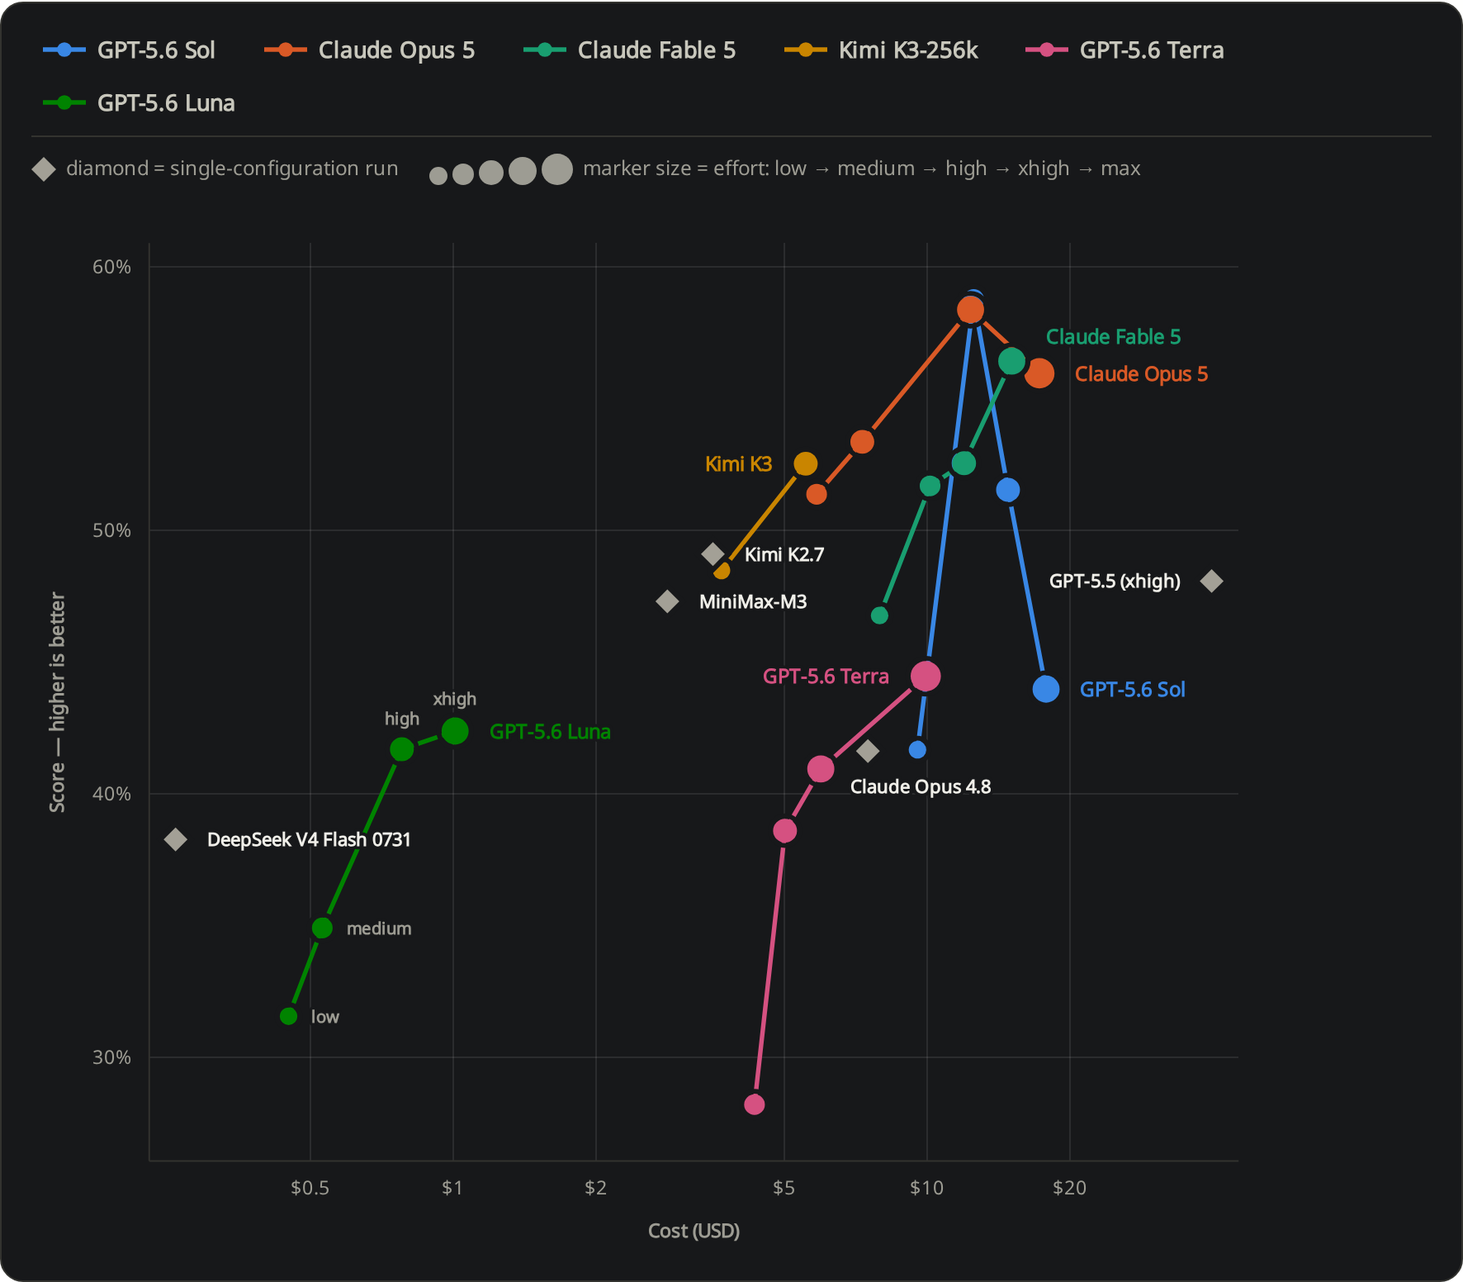
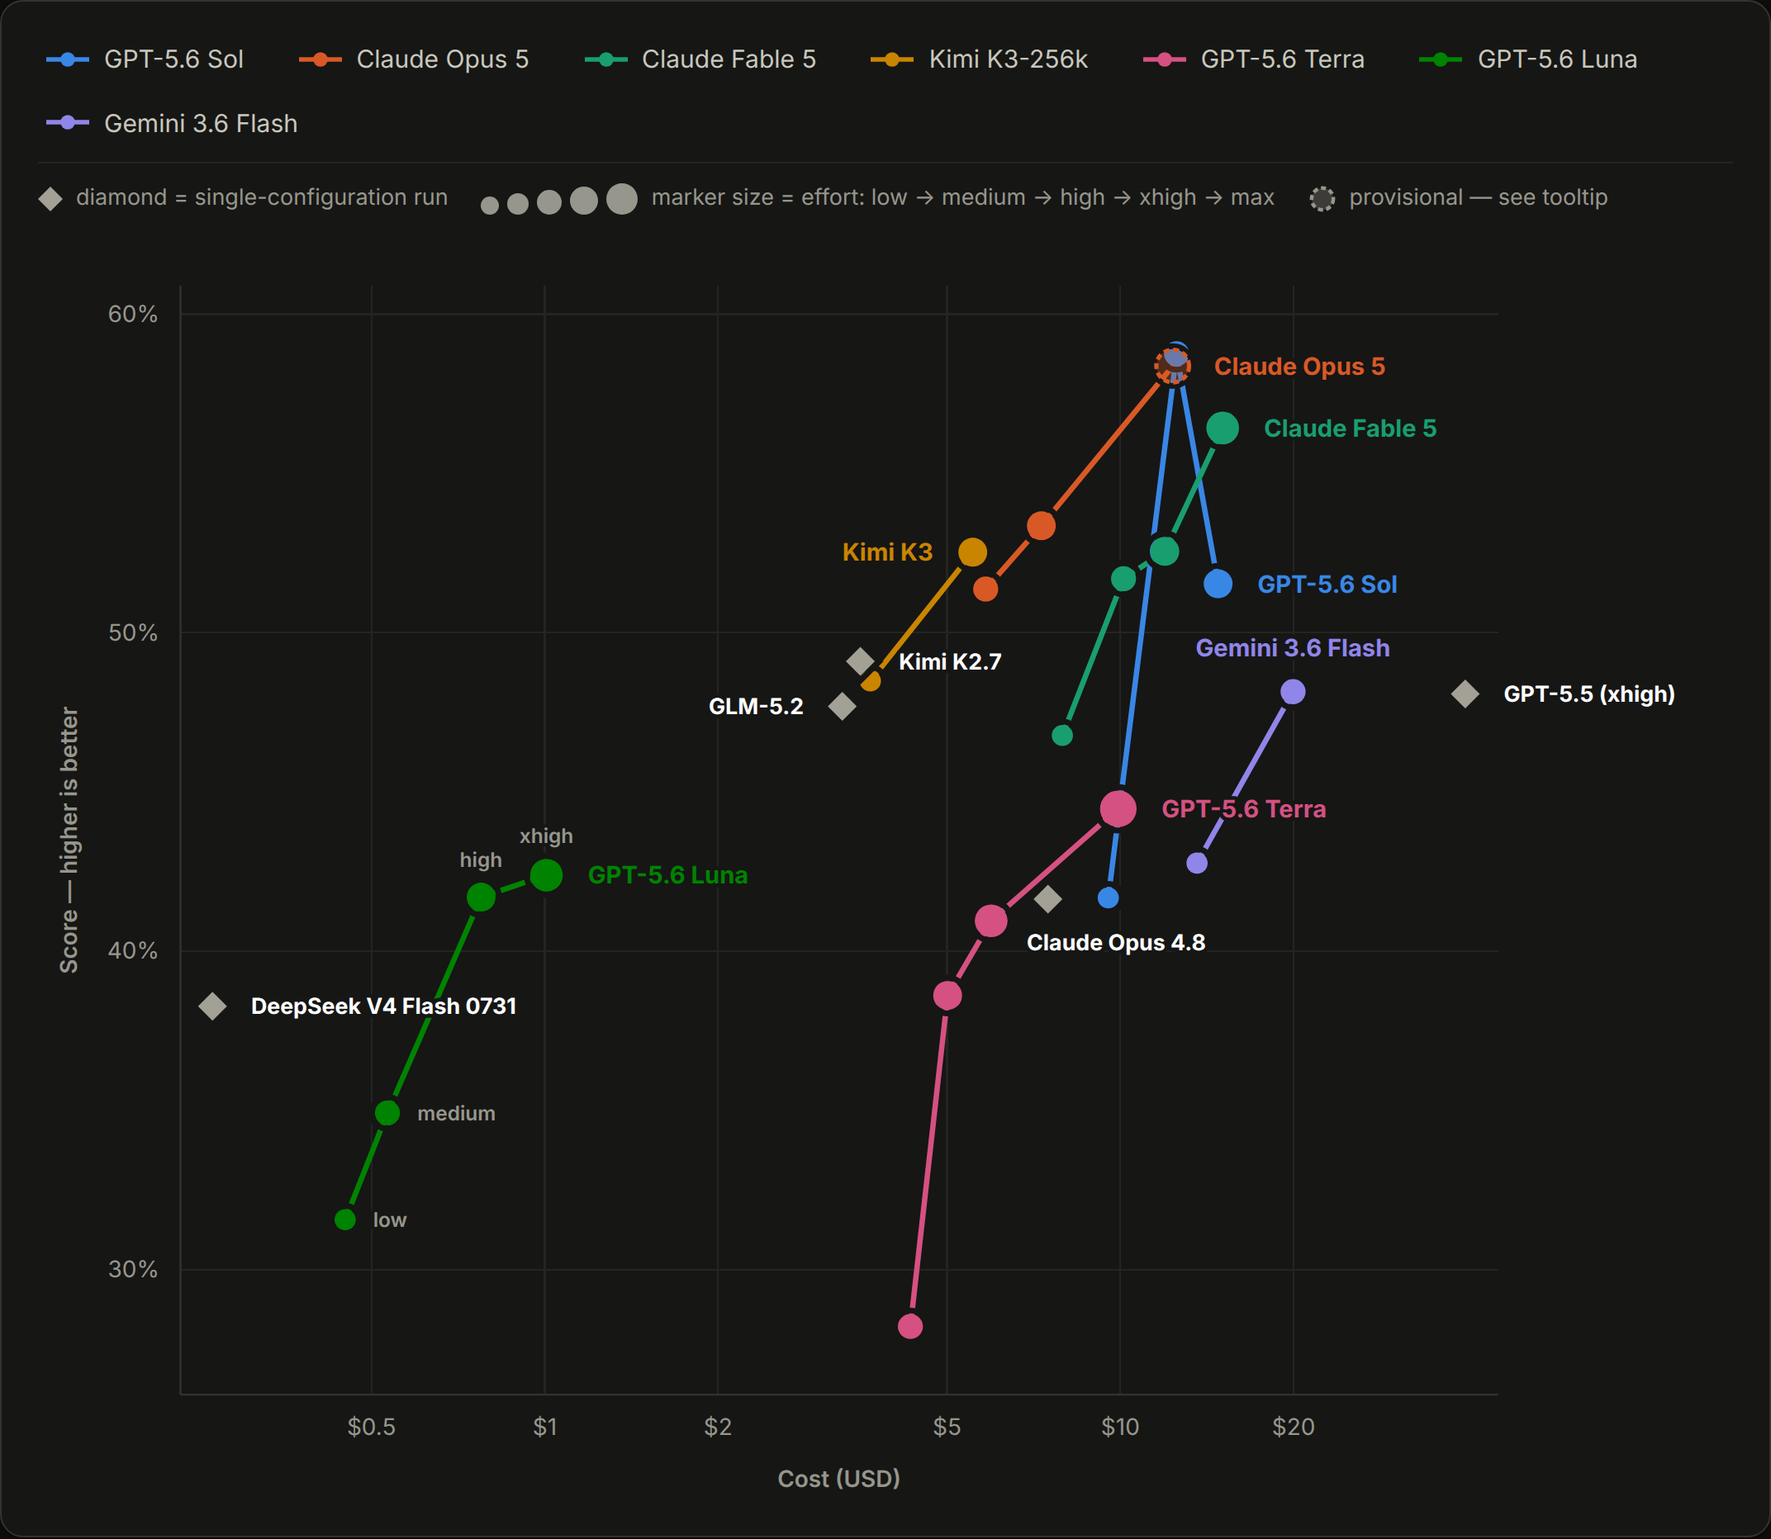
Update agent results: Gemini, Volcano Engine and Kimi K3; regenerate the chart
The Agent table goes from 24 hand-maintained rows to all 72, generated from
the leaderboard's own row data so the two cannot disagree. Generating it caught
three drifts the hand-maintained version had: GPT-5.5 and Claude Opus 4.7 were
listed without the effort tier the board records for them (medium and xhigh),
and MiMo's capitalisation disagreed.

Price/performance image regenerated. It now carries Gemini 3.6 Flash and
GLM-5.2, and GPT-5.5 is a diamond rather than a line — its medium run answered
only 24 of the 31 questions, so it was never a comparable ladder.

The leaderboard's full scatter now omits the w/o SGM ablations, which were
costing 45% of its vertical resolution; both READMEs say so, and the tables
still list them. The note that the chart covers more configurations than the
table was backwards after this change and is fixed.

Two additions worth their space: the same model shifts several points across
harnesses (GLM-5.2 scores 47.7% under Claude Code and 45.1% under Pi), so
harness and model are one system here rather than two independent factors; and
Kimi Code and Antigravity are not among the five runners agent_systems/ ships,
which a reader trying to reproduce those rows would otherwise hit blind.

diff --git a/README.md b/README.md
@@ -51,6 +51,7 @@
 - **2026-06-07:** Updated with more NIAH results and analysis, including the SGM vs. Raw comparison across various multimodal answerers.
 - **2026-06-12:** Added per-run USD cost estimates to the General-Purpose Agent results.
 - **2026-07-18:** ATM-Bench-Hard (SGM) released as a [Harbor](https://github.com/harbor-framework/harbor) dataset — run any Harbor agent against the 31 hard questions in per-question Docker isolation with `harbor run -d atm-bench/atm-bench-hard-sgm` (see [`agent_systems/HARBOR.md`](agent_systems/HARBOR.md)).
+- **2026-08-06:** Added Kimi Code, Antigravity (Gemini, via Harbor) and Volcano Engine coding-plan results, taking the Agent table to every priced run. The leaderboard's full scatter now leaves out the `w/o SGM` ablations, which were spending 45% of the chart's vertical range on six runs that answer a different question; they remain in every table.
 
 <a id="General-Purpose-Agent-results"></a>
 ## 🤖 General-Purpose Agent Results
@@ -65,51 +66,102 @@ General-Purpose Agent results on ATM-Bench-Hard are summarized below. The QS sco
   <picture>
     <source media="(prefers-color-scheme: dark)" srcset="docs/images/price-performance-dark.png">
     <img src="docs/images/price-performance-light.png" width="100%"
-      alt="ATM-Bench-Hard score plotted against run cost on a log axis from $0.26 to $39.74. Lines join each model's reasoning-effort tiers; diamonds are single-configuration runs. GPT-5.6 Sol peaks at 58.8% for $12.52, Kimi K3-256k reaches 52.5% for $5.54, and GPT-5.6 Luna reaches 42.4% for $1.01.">
+      alt="ATM-Bench-Hard score plotted against run cost on a log axis from $0.26 to $39.74. Lines join each model's reasoning-effort tiers; diamonds are single-configuration runs. GPT-5.6 Sol peaks at 58.8% for $12.52 and Claude Opus 5 reaches 58.4% for $12.33; Kimi K3-256k reaches 52.5% for $5.54, Gemini 3.6 Flash 48.2% for $19.96, GLM-5.2 under Claude Code 47.7% for $3.29, and GPT-5.6 Luna 42.4% for $1.01.">
   </picture>
 </a>
 
 What each run scored against what it cost, at API list-price equivalent. A line joins one model's
 reasoning-effort tiers, marker size is the tier, and a diamond is a system with a single configuration.
 **[The chart is interactive on the leaderboard](https://atmbench.github.io/leaderboard.html)** — hover any
-point for tokens, cost per score point, and how many of the 31 questions it answered. This image is a
-snapshot: it covers more configurations than the table below, and a few measured runs are left off the
-lines where a dearer tier scored lower.
+point for tokens, cost per score point, and how many of the 31 questions it answered. The chart is a
+curated view of the table below: it draws the configurations that carry the price/performance story, and
+holds a few measured runs off the lines where a dearer tier scored lower. The table lists every priced run,
+including the `w/o SGM` ablations, which no chart draws — they score far below every real configuration and
+carrying them costs 45% of a chart's vertical resolution.
 
 | Agent | Model | QS (Acc.) ↑ | Total Tokens ↓ | Cost (USD) ↓ |
 |-------|-------|------------:|---------------:|------------:|
+| Claude Code | Claude Opus 5 (xhigh) | 58.4% | 6.1M | $12.33 |
 | Claude Code | Claude Fable 5 (xhigh) | 56.4% | 2.9M | $15.06 |
+| Claude Code | Claude Opus 5 (max) | 56.0% | 8.9M | $17.22 |
+| Claude Code | Claude Opus 5 (high) | 53.4% | 3.5M | $7.29 |
+| Claude Code | Claude Fable 5 (high) | 52.5% | 2.5M | $11.95 |
+| Claude Code | Claude Fable 5 (medium) | 51.7% | 2.2M | $10.13 |
+| Claude Code | Claude Opus 5 (medium) | 51.4% | 3.2M | $5.84 |
+| Claude Code | GLM-5.2 | 47.7% | 5.0M | $3.29 |
+| Claude Code | Kimi K2.7 Code | 47.0% | 10.7M | $3.00 |
+| Claude Code | Claude Fable 5 (low) | 46.8% | 1.9M | $7.93 |
 | Claude Code | Claude Opus 4.7 (max) | 46.6% | 6.9M | $9.58 |
-| Claude Code | Claude Opus 4.6 | 33.8% | 4.9M | $8.01 |
-| Claude Code | Claude Opus 4.7 | 39.5% | 5.0M | $7.70 |
-| Claude Code | Claude Opus 4.7 (w/o SGM) | 23.1% | 17.0M | $19.84 |
+| Claude Code | Doubao Seed 2.1 Turbo | 46.2% | 9.3M | $1.63 |
 | Claude Code | Claude Opus 4.8 | 41.6% | 4.4M | $7.49 |
+| Claude Code | Claude Opus 4.7 (xhigh) | 39.5% | 5.0M | $7.70 |
+| Claude Code | Claude Opus 4.6 | 33.8% | 4.9M | $8.01 |
+| Claude Code | Claude Opus 4.7 (w/o SGM) | 23.1% | 16.9M | $19.84 |
 | Codex | GPT-5.6 Sol (medium) | 58.8% | 7.5M | $12.52 |
-| Codex | GPT-5.2 | 39.7% | 15.5M | — |
-| Codex | GPT-5.2 (w/o SGM) | 16.3% | 22.2M | $9.22 |
-| Codex | GPT-5.5 | 41.4% | 16.1M | $27.17 |
+| Codex | GPT-5.6 Sol (high) | 51.5% | 10.2M | $14.79 |
+| Codex | GPT-5.6 Sol (max) | 48.3% | 17.6M | $23.90 |
 | Codex | GPT-5.5 (xhigh) | 48.1% | 22.9M | $39.74 |
+| Codex | GPT-5.6 Terra (max) | 44.5% | 17.2M | $9.92 |
+| Codex | GPT-5.6 Sol (xhigh) | 44.0% | 11.5M | $17.79 |
+| Codex | GPT-5.6 Terra (low) | 43.5% | 6.2M | $4.08 |
+| Codex | GPT-5.6 Luna (xhigh) | 42.4% | 18.8M | $1.01 |
+| Codex | GPT-5.6 Luna (high) | 41.7% | 14.0M | $0.78 |
+| Codex | GPT-5.6 Sol (low) | 41.7% | 5.1M | $9.53 |
+| Codex | GPT-5.5 (medium) | 41.4% | 16.1M | $27.17 |
+| Codex | GPT-5.6 Terra (xhigh) | 41.0% | 9.4M | $5.96 |
+| Codex | GPT-5.2 | 39.7% | 15.5M | — |
+| Codex | GPT-5.6 Terra (high) | 38.6% | 7.8M | $5.01 |
+| Codex | GPT-5.6 Luna (medium) | 34.9% | 8.3M | $0.53 |
+| Codex | GPT-5.6 Luna (low) | 31.6% | 7.0M | $0.45 |
+| Codex | GPT-5.4 | 29.6% | 14.3M | $9.33 |
+| Codex | GPT-5.6 Luna (max) | 28.2% | 28.8M | $1.44 |
+| Codex | GPT-5.6 Terra (medium) | 28.2% | 6.7M | $4.32 |
+| Codex | GPT-5.2 (w/o SGM) | 16.3% | 22.2M | $9.22 |
+| Kimi Code | Kimi K3-256k (high) | 52.5% | 7.9M | $5.54 |
+| Kimi Code | Kimi K3 (max) | 51.4% | 6.3M | $4.90 |
+| Kimi Code | Kimi K2.7 | 49.1% | 14.1M | $3.53 |
+| Kimi Code | Kimi K3-256k (low) | 48.5% | 5.4M | $3.68 |
+| Kimi Code | Kimi K3-256k (max) | 48.5% | 8.0M | $5.83 |
+| OpenCode | MiniMax M3 | 47.3% | 16.3M | $2.83 |
+| OpenCode | DeepSeek V4 Flash (0731) | 38.3% | 12.5M | $0.26 |
+| OpenCode | Kimi K2.7 Code | 37.8% | 32.9M | $6.81 |
+| OpenCode | Doubao Seed 2.1 Turbo | 37.7% | 9.8M | $1.69 |
+| OpenCode | Kimi K2.5 | 30.3% | 8.5M | $1.81 |
+| OpenCode | LongCat 2.0 | 28.2% | 31.2M | $0.72 |
+| OpenCode | MiniMax M2.7 | 27.8% | 13.5M | $1.36 |
 | OpenCode | GLM-5 | 27.0% | 16.9M | $14.92 |
 | OpenCode | Qwen3.5-397B-A17B | 24.5% | 12.1M | $4.93 |
-| OpenCode | Kimi K2.5 | 30.3% | 8.5M | $1.81 |
-| OpenCode | Kimi K2.5 (w/o SGM) | 6.5% | 21.4M | $6.40 |
 | OpenCode | MiniMax M2.5 | 22.9% | 14.5M | $4.43 |
-| OpenCode | MiniMax M2.7 | 27.8% | 13.5M | $1.36 |
-| OpenClaw 🦞 | Kimi K2.5 | 25.4% | 9.6M | $2.37 |
-| Pi | GLM-5.1 | 38.8% | 8.2M | $4.33 |
-| Pi | Kimi K2.5 | 37.8% | 9.9M | $2.67 |
-| Pi | MiMo v2.5 | 36.1% | 18.2M | $2.06 |
+| OpenCode | Kimi K2.5 (w/o SGM) | 6.5% | 21.4M | $6.40 |
+| Pi | GLM-5.2 | 45.1% | 5.0M | $3.02 |
 | Pi | MiniMax M3 | 43.2% | 15.6M | $3.39 |
-| Pi | Qwen3.6-27B | 38.5% | 7.1M | $2.45 |
+| Pi | Kimi K2.7 Code | 39.2% | 17.1M | $4.44 |
+| Pi | GLM-5.1 | 38.8% | 8.2M | $4.33 |
+| Pi | Qwen3.6-27B | 38.5% | 7.2M | $2.45 |
+| Pi | Kimi K2.5 | 37.8% | 9.9M | $2.67 |
+| Pi | Doubao Seed 2.1 Turbo | 36.8% | 4.9M | $0.97 |
+| Pi | MiMo V2.5 | 36.1% | 18.2M | $2.06 |
+| Pi | MiMo V2.5 Pro | 31.9% | 14.6M | $4.98 |
+| Pi | MiMo V2.5 (w/o SGM) | 18.6% | 60.5M | $5.74 |
 | Pi | Qwen3.6-27B (w/o SGM) | 16.6% | 20.8M | $6.29 |
+| Pi | MiMo V2.5 Pro (w/o SGM) | 14.6% | 50.0M | $13.97 |
+| OpenClaw 🦞 | Kimi K2.5 | 25.4% | 9.6M | $2.37 |
+| Antigravity | Gemini 3.5 Flash (high) | 55.8% | 49.5M | $19.09 |
+| Antigravity | Gemini 3.5 Flash (medium) | 54.4% | 122.0M | $50.18 |
+| Antigravity | Gemini 3.6 Flash (medium) | 48.1% | 54.3M | $19.96 |
+| Antigravity | Gemini 3.6 Flash (high) | 44.7% | 56.6M | $21.02 |
+| Antigravity | Gemini 3.1 Pro (high) | 43.6% | 54.7M | $28.14 |
+| Antigravity | Gemini 3.6 Flash (low) | 42.8% | 27.4M | $13.59 |
+| Antigravity | Gemini 3.1 Pro (low) | 40.3% | 21.3M | $13.41 |
 
 > **Cost** is the API-equivalent estimate for one full ATM-Bench-Hard run (31 questions), calculated from saved per-call token counters with Tokdash's bundled standard short-context rates. It does not represent Codex subscription charges.
 
 * Coding agents use their default configuration unless the model label states a reasoning effort such as `max` or `xhigh`.
+* The same model can differ by several points across harnesses — GLM-5.2 scores 47.7% under Claude Code and 45.1% under Pi, Kimi K2.7 Code 47.0% / 39.2% / 37.8% under Claude Code, Pi and OpenCode. Harness and model are one system here, not two independent factors.
 
 The coding agents still struggle on ATM-Bench-Hard, although they perform much better than various agentic memory baselines.
 
-To reproduce these runs, see the General-Purpose Agent harness under [`agent_systems/`](agent_systems/README.md), which provides isolated, per-question runners for Claude Code, Codex, Pi, OpenCode, and OpenClaw.
+To reproduce these runs, see the General-Purpose Agent harness under [`agent_systems/`](agent_systems/README.md), which provides isolated, per-question runners for Claude Code, Codex, Pi, OpenCode, and OpenClaw. Two harnesses in the table are not in that set: Kimi Code runs through its own CLI, and Antigravity (the Gemini rows) runs under [Harbor](agent_systems/HARBOR.md) against the published `atm-bench-hard-sgm` dataset.
 
 <a id="memory-system-baseline-results"></a>
 ## 🧠 Memory-System Baseline Results

diff --git a/README_zh.md b/README_zh.md
@@ -54,6 +54,7 @@
 - **2026-06-07：** 更新更多 NIAH 结果与分析，包括多种多模态回答模型在 SGM 与 Raw 设置下的对比。
 - **2026-06-12：** 为通用智能体结果新增每次运行的美元成本估算。
 - **2026-07-18：** ATM-Bench-Hard (SGM) 以 [Harbor](https://github.com/harbor-framework/harbor) 数据集形式发布——通过 `harbor run -d atm-bench/atm-bench-hard-sgm`，即可在按问题隔离的 Docker 容器中运行任意 Harbor 智能体，完成全部 31 个困难问题（参见 [`agent_systems/HARBOR.md`](agent_systems/HARBOR.md)）。
+- **2026-08-06：** 新增 Kimi Code、Antigravity（Gemini，经由 Harbor）与火山引擎 coding plan 的结果，智能体表格现已覆盖全部已计价运行。榜单页的完整散点图不再画出 `w/o SGM` 消融运行——这六次运行回答的是另一个问题，却占去了图表 45% 的纵向范围；它们仍保留在所有表格中。
 
 <a id="general-purpose-agent-results-zh"></a>
 ## 通用智能体结果
@@ -68,48 +69,97 @@ ATM-Bench-Hard 上的通用智能体结果如下。QS 分数使用 `gpt-5-mini` 
   <picture>
     <source media="(prefers-color-scheme: dark)" srcset="docs/images/price-performance-dark.png">
     <img src="docs/images/price-performance-light.png" width="100%"
-      alt="ATM-Bench-Hard 得分对运行成本的散点图，成本为对数轴（$0.26 至 $39.74）。折线连接同一模型的各推理强度档位，菱形表示单一配置运行。GPT-5.6 Sol 以 $12.52 取得 58.8%，Kimi K3-256k 以 $5.54 取得 52.5%，GPT-5.6 Luna 以 $1.01 取得 42.4%。">
+      alt="ATM-Bench-Hard 得分对运行成本的散点图，成本为对数轴（$0.26 至 $39.74）。折线连接同一模型的各推理强度档位，菱形表示单一配置运行。GPT-5.6 Sol 以 $12.52 取得 58.8%，Claude Opus 5 以 $12.33 取得 58.4%；Kimi K3-256k 以 $5.54 取得 52.5%，Gemini 3.6 Flash 以 $19.96 取得 48.2%，Claude Code 上的 GLM-5.2 以 $3.29 取得 47.7%，GPT-5.6 Luna 以 $1.01 取得 42.4%。">
   </picture>
 </a>
 
 每次运行的得分与花费（按 API 标价等价折算）。折线连接同一模型的各推理强度档位，标记大小表示档位，菱形表示单一配置的系统。
 **[榜单页面上的该图可交互](https://atmbench.github.io/leaderboard.html)** — 悬停任意数据点可查看 token 数、每分成本，以及 31 题中实际回答的题数。
-此图为快照：它覆盖的配置多于下方表格，且个别「更贵但得分更低」的运行未画入折线。
+此图是下方表格的精选视图：只画出能体现成本 – 得分关系的配置，且个别「更贵但得分更低」的运行未画入折线。下方表格列出全部已计价运行，包括 `w/o SGM` 消融运行——后者不出现在任何图中：它们的得分远低于任何真实配置，保留它们会占去图表 45% 的纵向分辨率。
 
 | 智能体 | 模型 | QS (Acc.) ↑ | 总 Token 数 ↓ | 成本 (USD) ↓ |
 |--------|------|-------------:|---------------:|------------:|
+| Claude Code | Claude Opus 5 (xhigh) | 58.4% | 6.1M | $12.33 |
 | Claude Code | Claude Fable 5 (xhigh) | 56.4% | 2.9M | $15.06 |
+| Claude Code | Claude Opus 5 (max) | 56.0% | 8.9M | $17.22 |
+| Claude Code | Claude Opus 5 (high) | 53.4% | 3.5M | $7.29 |
+| Claude Code | Claude Fable 5 (high) | 52.5% | 2.5M | $11.95 |
+| Claude Code | Claude Fable 5 (medium) | 51.7% | 2.2M | $10.13 |
+| Claude Code | Claude Opus 5 (medium) | 51.4% | 3.2M | $5.84 |
+| Claude Code | GLM-5.2 | 47.7% | 5.0M | $3.29 |
+| Claude Code | Kimi K2.7 Code | 47.0% | 10.7M | $3.00 |
+| Claude Code | Claude Fable 5 (low) | 46.8% | 1.9M | $7.93 |
 | Claude Code | Claude Opus 4.7 (max) | 46.6% | 6.9M | $9.58 |
-| Claude Code | Claude Opus 4.6 | 33.8% | 4.9M | $8.01 |
-| Claude Code | Claude Opus 4.7 | 39.5% | 5.0M | $7.70 |
-| Claude Code | Claude Opus 4.7 (w/o SGM) | 23.1% | 17.0M | $19.84 |
+| Claude Code | Doubao Seed 2.1 Turbo | 46.2% | 9.3M | $1.63 |
 | Claude Code | Claude Opus 4.8 | 41.6% | 4.4M | $7.49 |
+| Claude Code | Claude Opus 4.7 (xhigh) | 39.5% | 5.0M | $7.70 |
+| Claude Code | Claude Opus 4.6 | 33.8% | 4.9M | $8.01 |
+| Claude Code | Claude Opus 4.7 (w/o SGM) | 23.1% | 16.9M | $19.84 |
 | Codex | GPT-5.6 Sol (medium) | 58.8% | 7.5M | $12.52 |
-| Codex | GPT-5.2 | 39.7% | 15.5M | — |
-| Codex | GPT-5.2 (w/o SGM) | 16.3% | 22.2M | $9.22 |
-| Codex | GPT-5.5 | 41.4% | 16.1M | $27.17 |
+| Codex | GPT-5.6 Sol (high) | 51.5% | 10.2M | $14.79 |
+| Codex | GPT-5.6 Sol (max) | 48.3% | 17.6M | $23.90 |
 | Codex | GPT-5.5 (xhigh) | 48.1% | 22.9M | $39.74 |
+| Codex | GPT-5.6 Terra (max) | 44.5% | 17.2M | $9.92 |
+| Codex | GPT-5.6 Sol (xhigh) | 44.0% | 11.5M | $17.79 |
+| Codex | GPT-5.6 Terra (low) | 43.5% | 6.2M | $4.08 |
+| Codex | GPT-5.6 Luna (xhigh) | 42.4% | 18.8M | $1.01 |
+| Codex | GPT-5.6 Luna (high) | 41.7% | 14.0M | $0.78 |
+| Codex | GPT-5.6 Sol (low) | 41.7% | 5.1M | $9.53 |
+| Codex | GPT-5.5 (medium) | 41.4% | 16.1M | $27.17 |
+| Codex | GPT-5.6 Terra (xhigh) | 41.0% | 9.4M | $5.96 |
+| Codex | GPT-5.2 | 39.7% | 15.5M | — |
+| Codex | GPT-5.6 Terra (high) | 38.6% | 7.8M | $5.01 |
+| Codex | GPT-5.6 Luna (medium) | 34.9% | 8.3M | $0.53 |
+| Codex | GPT-5.6 Luna (low) | 31.6% | 7.0M | $0.45 |
+| Codex | GPT-5.4 | 29.6% | 14.3M | $9.33 |
+| Codex | GPT-5.6 Luna (max) | 28.2% | 28.8M | $1.44 |
+| Codex | GPT-5.6 Terra (medium) | 28.2% | 6.7M | $4.32 |
+| Codex | GPT-5.2 (w/o SGM) | 16.3% | 22.2M | $9.22 |
+| Kimi Code | Kimi K3-256k (high) | 52.5% | 7.9M | $5.54 |
+| Kimi Code | Kimi K3 (max) | 51.4% | 6.3M | $4.90 |
+| Kimi Code | Kimi K2.7 | 49.1% | 14.1M | $3.53 |
+| Kimi Code | Kimi K3-256k (low) | 48.5% | 5.4M | $3.68 |
+| Kimi Code | Kimi K3-256k (max) | 48.5% | 8.0M | $5.83 |
+| OpenCode | MiniMax M3 | 47.3% | 16.3M | $2.83 |
+| OpenCode | DeepSeek V4 Flash (0731) | 38.3% | 12.5M | $0.26 |
+| OpenCode | Kimi K2.7 Code | 37.8% | 32.9M | $6.81 |
+| OpenCode | Doubao Seed 2.1 Turbo | 37.7% | 9.8M | $1.69 |
+| OpenCode | Kimi K2.5 | 30.3% | 8.5M | $1.81 |
+| OpenCode | LongCat 2.0 | 28.2% | 31.2M | $0.72 |
+| OpenCode | MiniMax M2.7 | 27.8% | 13.5M | $1.36 |
 | OpenCode | GLM-5 | 27.0% | 16.9M | $14.92 |
 | OpenCode | Qwen3.5-397B-A17B | 24.5% | 12.1M | $4.93 |
-| OpenCode | Kimi K2.5 | 30.3% | 8.5M | $1.81 |
-| OpenCode | Kimi K2.5 (w/o SGM) | 6.5% | 21.4M | $6.40 |
 | OpenCode | MiniMax M2.5 | 22.9% | 14.5M | $4.43 |
-| OpenCode | MiniMax M2.7 | 27.8% | 13.5M | $1.36 |
-| OpenClaw 🦞 | Kimi K2.5 | 25.4% | 9.6M | $2.37 |
-| Pi | GLM-5.1 | 38.8% | 8.2M | $4.33 |
-| Pi | Kimi K2.5 | 37.8% | 9.9M | $2.67 |
-| Pi | MiMo v2.5 | 36.1% | 18.2M | $2.06 |
+| OpenCode | Kimi K2.5 (w/o SGM) | 6.5% | 21.4M | $6.40 |
+| Pi | GLM-5.2 | 45.1% | 5.0M | $3.02 |
 | Pi | MiniMax M3 | 43.2% | 15.6M | $3.39 |
-| Pi | Qwen3.6-27B | 38.5% | 7.1M | $2.45 |
+| Pi | Kimi K2.7 Code | 39.2% | 17.1M | $4.44 |
+| Pi | GLM-5.1 | 38.8% | 8.2M | $4.33 |
+| Pi | Qwen3.6-27B | 38.5% | 7.2M | $2.45 |
+| Pi | Kimi K2.5 | 37.8% | 9.9M | $2.67 |
+| Pi | Doubao Seed 2.1 Turbo | 36.8% | 4.9M | $0.97 |
+| Pi | MiMo V2.5 | 36.1% | 18.2M | $2.06 |
+| Pi | MiMo V2.5 Pro | 31.9% | 14.6M | $4.98 |
+| Pi | MiMo V2.5 (w/o SGM) | 18.6% | 60.5M | $5.74 |
 | Pi | Qwen3.6-27B (w/o SGM) | 16.6% | 20.8M | $6.29 |
+| Pi | MiMo V2.5 Pro (w/o SGM) | 14.6% | 50.0M | $13.97 |
+| OpenClaw 🦞 | Kimi K2.5 | 25.4% | 9.6M | $2.37 |
+| Antigravity | Gemini 3.5 Flash (high) | 55.8% | 49.5M | $19.09 |
+| Antigravity | Gemini 3.5 Flash (medium) | 54.4% | 122.0M | $50.18 |
+| Antigravity | Gemini 3.6 Flash (medium) | 48.1% | 54.3M | $19.96 |
+| Antigravity | Gemini 3.6 Flash (high) | 44.7% | 56.6M | $21.02 |
+| Antigravity | Gemini 3.1 Pro (high) | 43.6% | 54.7M | $28.14 |
+| Antigravity | Gemini 3.6 Flash (low) | 42.8% | 27.4M | $13.59 |
+| Antigravity | Gemini 3.1 Pro (low) | 40.3% | 21.3M | $13.41 |
 
 > **成本**为一次完整 ATM-Bench-Hard 运行（31 个问题）的 API 等价估算，使用保存的每次调用 token 计数与 Tokdash 内置的标准短上下文费率计算。该数值不代表 Codex 订阅费用。
 
 * 除非模型标签注明 `max` 或 `xhigh` 等 reasoning effort，编程智能体均使用默认配置。
+* 同一模型在不同框架下可相差数个百分点——GLM-5.2 在 Claude Code 下为 47.7%，在 Pi 下为 45.1%；Kimi K2.7 Code 在 Claude Code、Pi、OpenCode 下分别为 47.0% / 39.2% / 37.8%。此处框架与模型是一个整体，而非两个独立因素。
 
 编程智能体在 ATM-Bench-Hard 上仍然表现不佳，但显著优于各种智能体记忆基线。
 
-要复现这些结果，请参见 [`agent_systems/`](agent_systems/README.md) 下的通用智能体测试框架，它为 Claude Code、Codex、Pi、OpenCode 和 OpenClaw 提供隔离的、按问题独立运行的运行器。
+要复现这些结果，请参见 [`agent_systems/`](agent_systems/README.md) 下的通用智能体测试框架，它为 Claude Code、Codex、Pi、OpenCode 和 OpenClaw 提供隔离的、按问题独立运行的运行器。表中另有两个框架不在其中：Kimi Code 通过自带 CLI 运行；Antigravity（即 Gemini 各行）通过 [Harbor](agent_systems/HARBOR.md) 在已发布的 `atm-bench-hard-sgm` 数据集上运行。
 
 <a id="memory-system-baseline-results-zh"></a>
 ## 记忆系统基线结果
